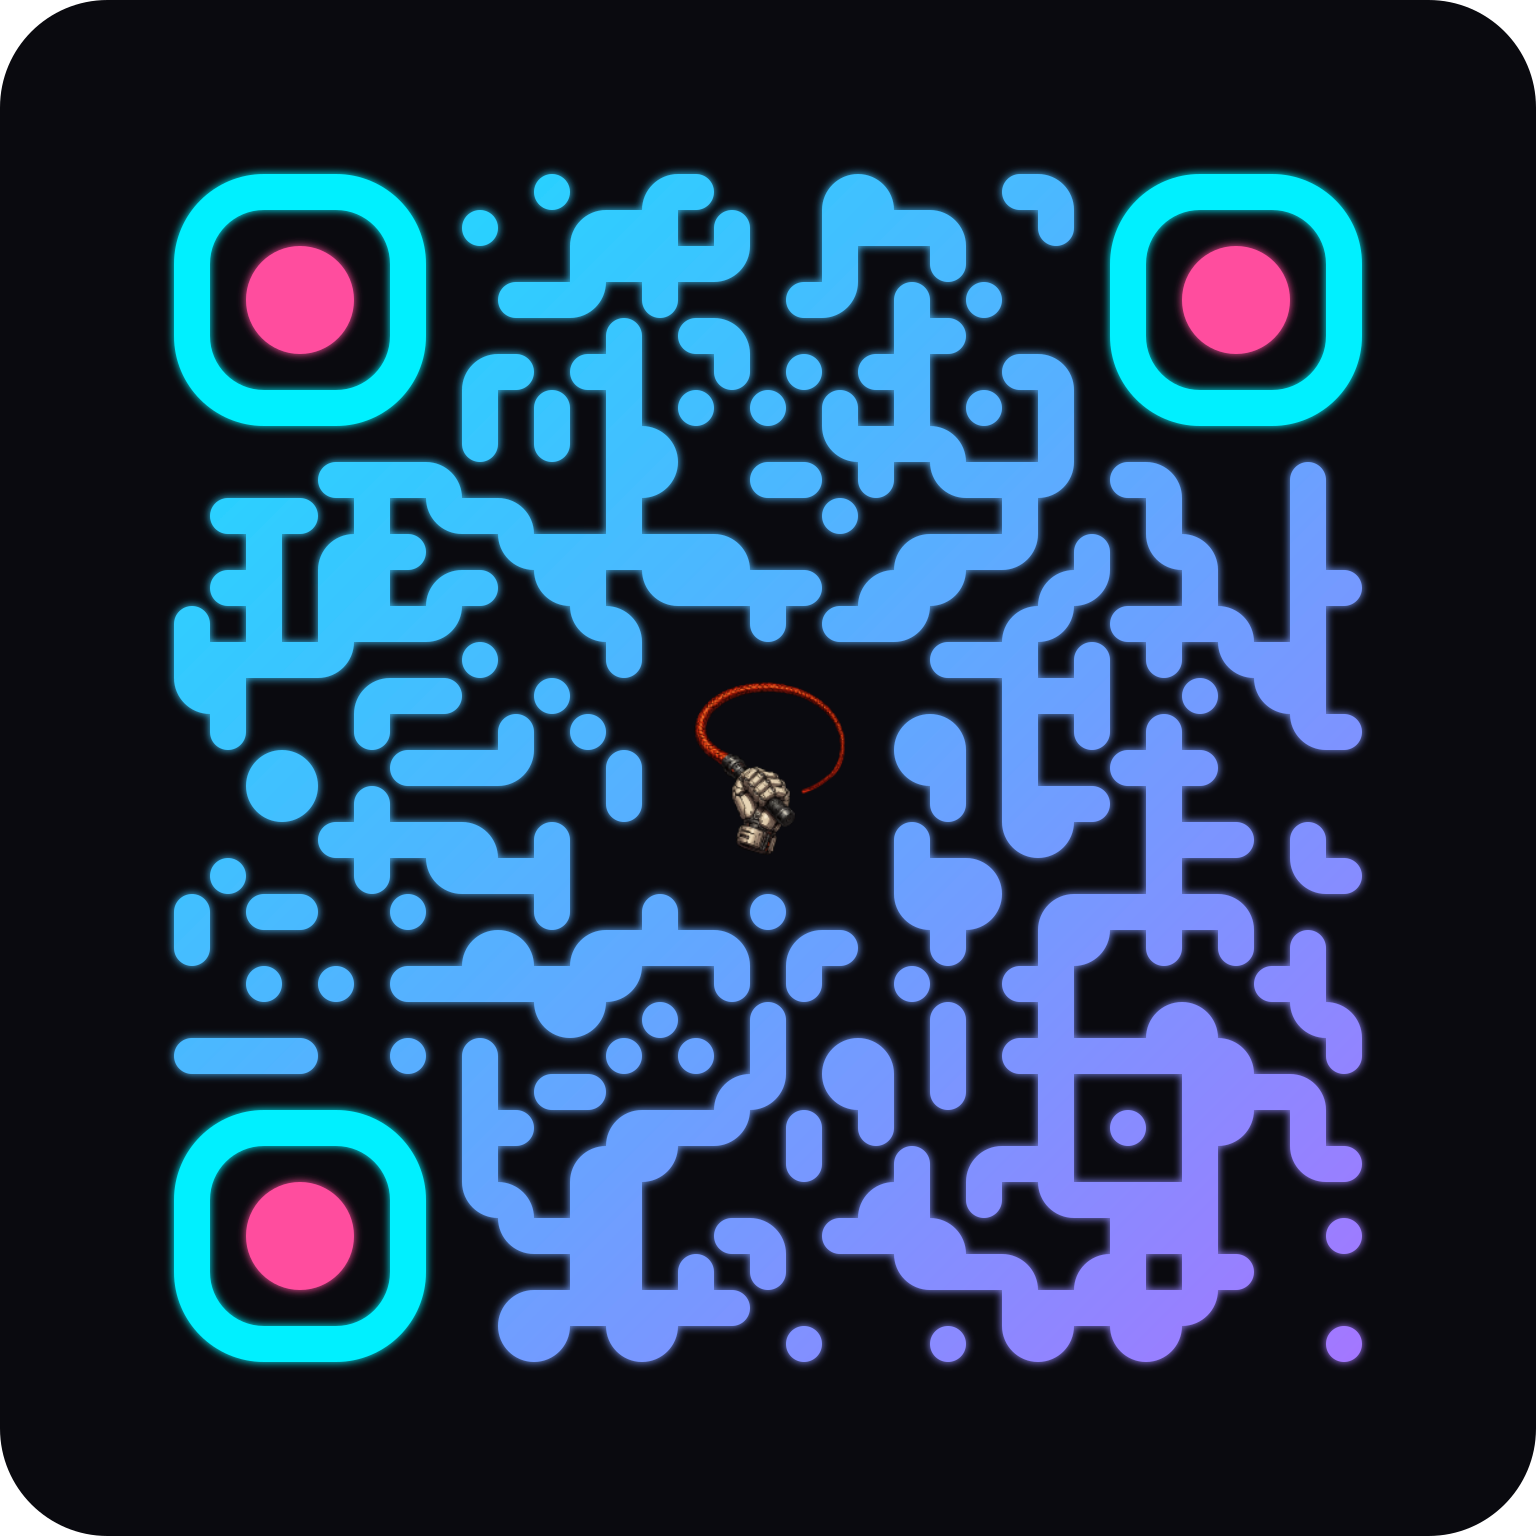
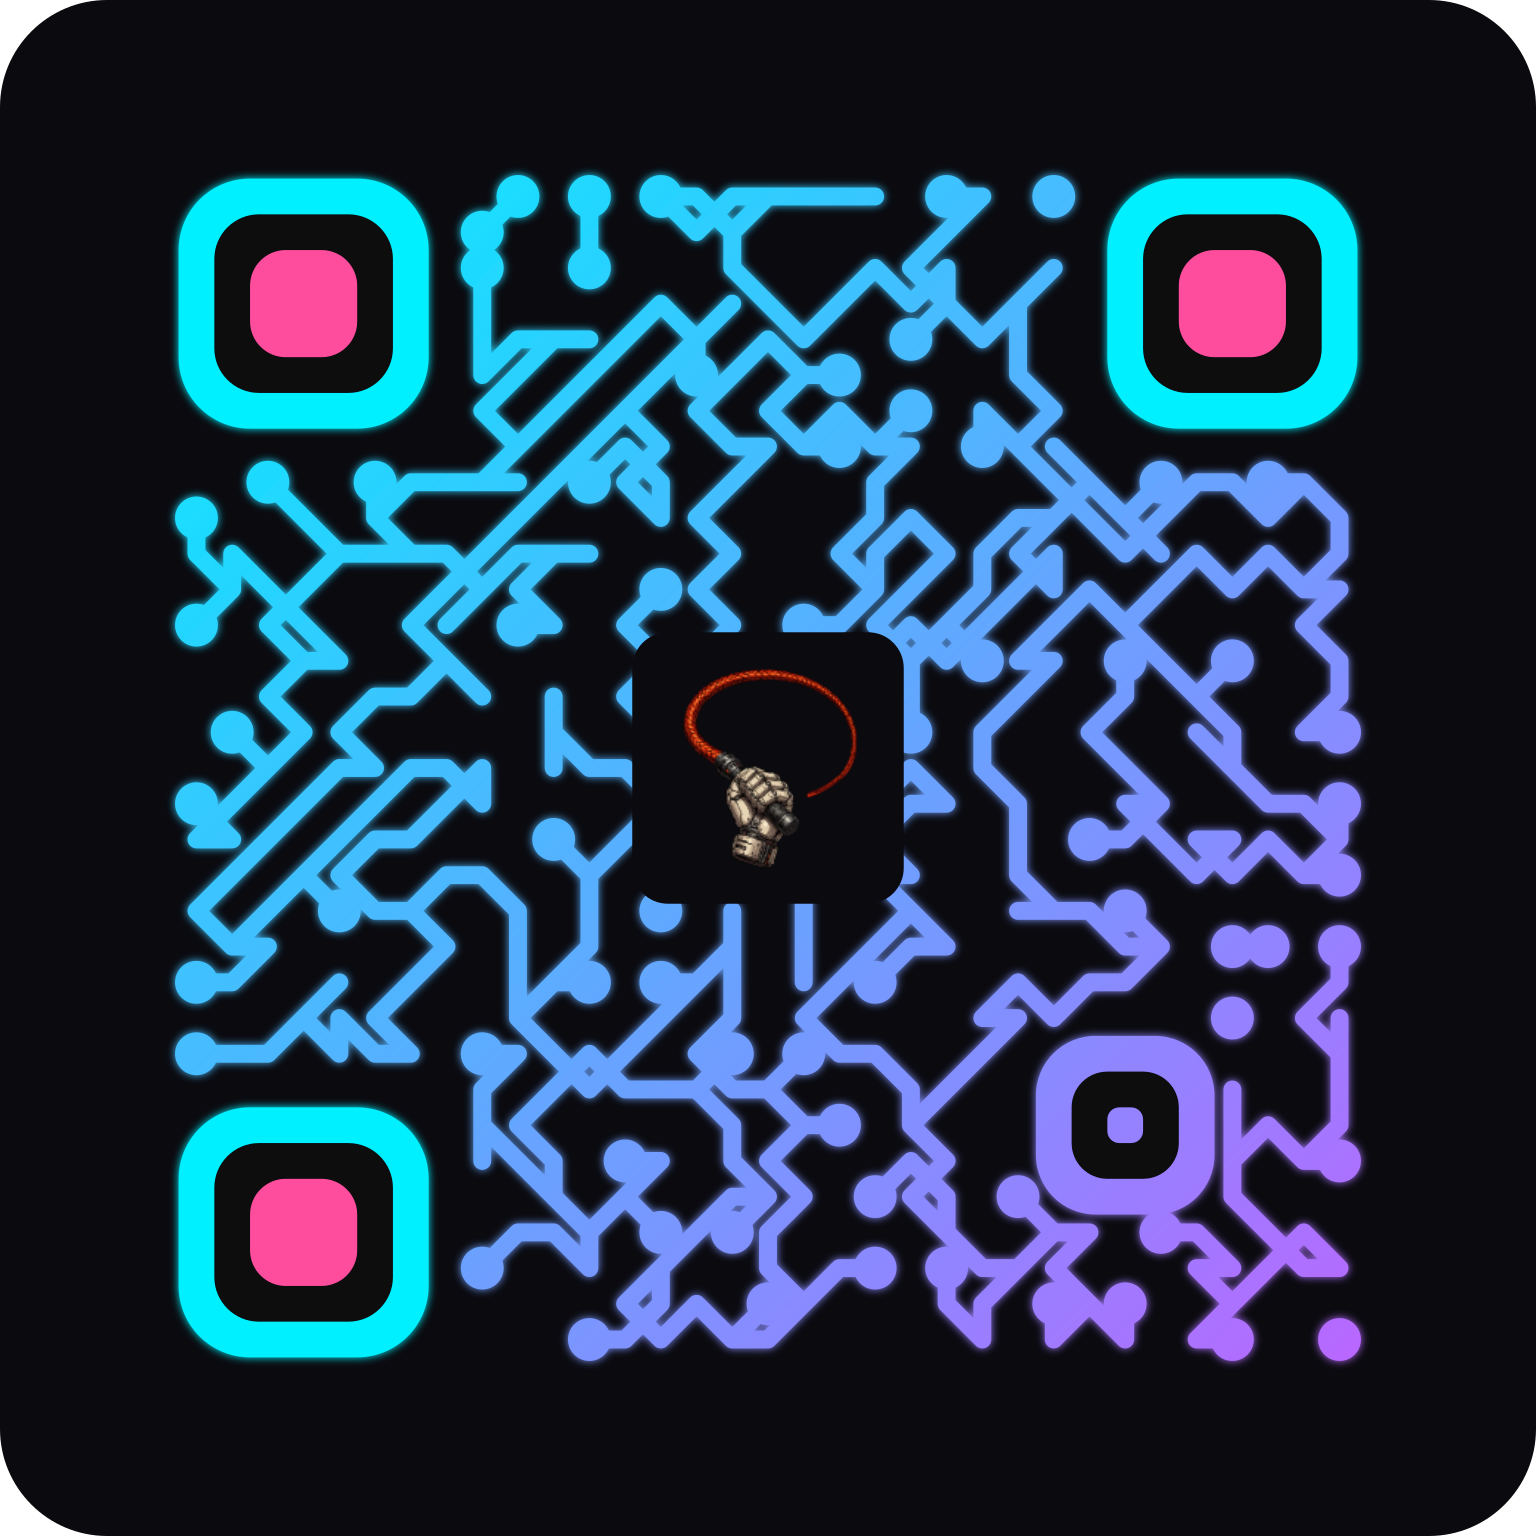
feat: use neon circuit style for install QR

diff --git a/docs/install-qr.md b/docs/install-qr.md
@@ -10,15 +10,19 @@ or a browser blocks automatic navigation.
 - [SVG for printing](../site/whip-install-qr.svg)
 - [Page source](../site/index.html)
 
-The generator uses [qr-code-styling](https://github.com/kozakdenys/qr-code-styling)
-1.9.2 and adapts the neon palette and extra-rounded patterns from
-[QRX](https://github.com/desmond845/QRX). Cyan, purple and pink on a dark background,
-soft glow and Whip's center icon create the cyberpunk style. Modules, corner
-markers and the background have rounded edges.
+The generator uses the built-in circuit renderer from
+[@verevoir/qr](https://github.com/verevoir/qr) 2.1.0 and the neon palette from
+[QRX](https://github.com/desmond845/QRX). Cyan-to-purple traces with circular
+endpoints, pink accents, soft glow and Whip's center icon give it a neon circuit
+board style. Trace joins, endpoints, corner markers and the background are rounded.
 
-The library handles encoding, patterns and the logo's clear area. The margin
-exceeds four modules at the current URL length, with H error correction. Keep the
-dark margin intact when placing the artwork elsewhere. The light-on-dark symbol
+The wrapper corrects an alignment-coordinate inconsistency in the library's
+2.1.0 circuit renderer: its traces expect marker centers while the encoder returns
+marker origins. The library still handles all QR encoding and circuit paths.
+
+The code uses H error correction and reserves capacity for the center logo.
+The five-module margin leaves more than four clear modules around the traces and
+glow. Keep the dark margin intact when placing the artwork elsewhere. The light-on-dark symbol
 requires a scanner that supports inverted QR codes.
 
 ## Publishing
